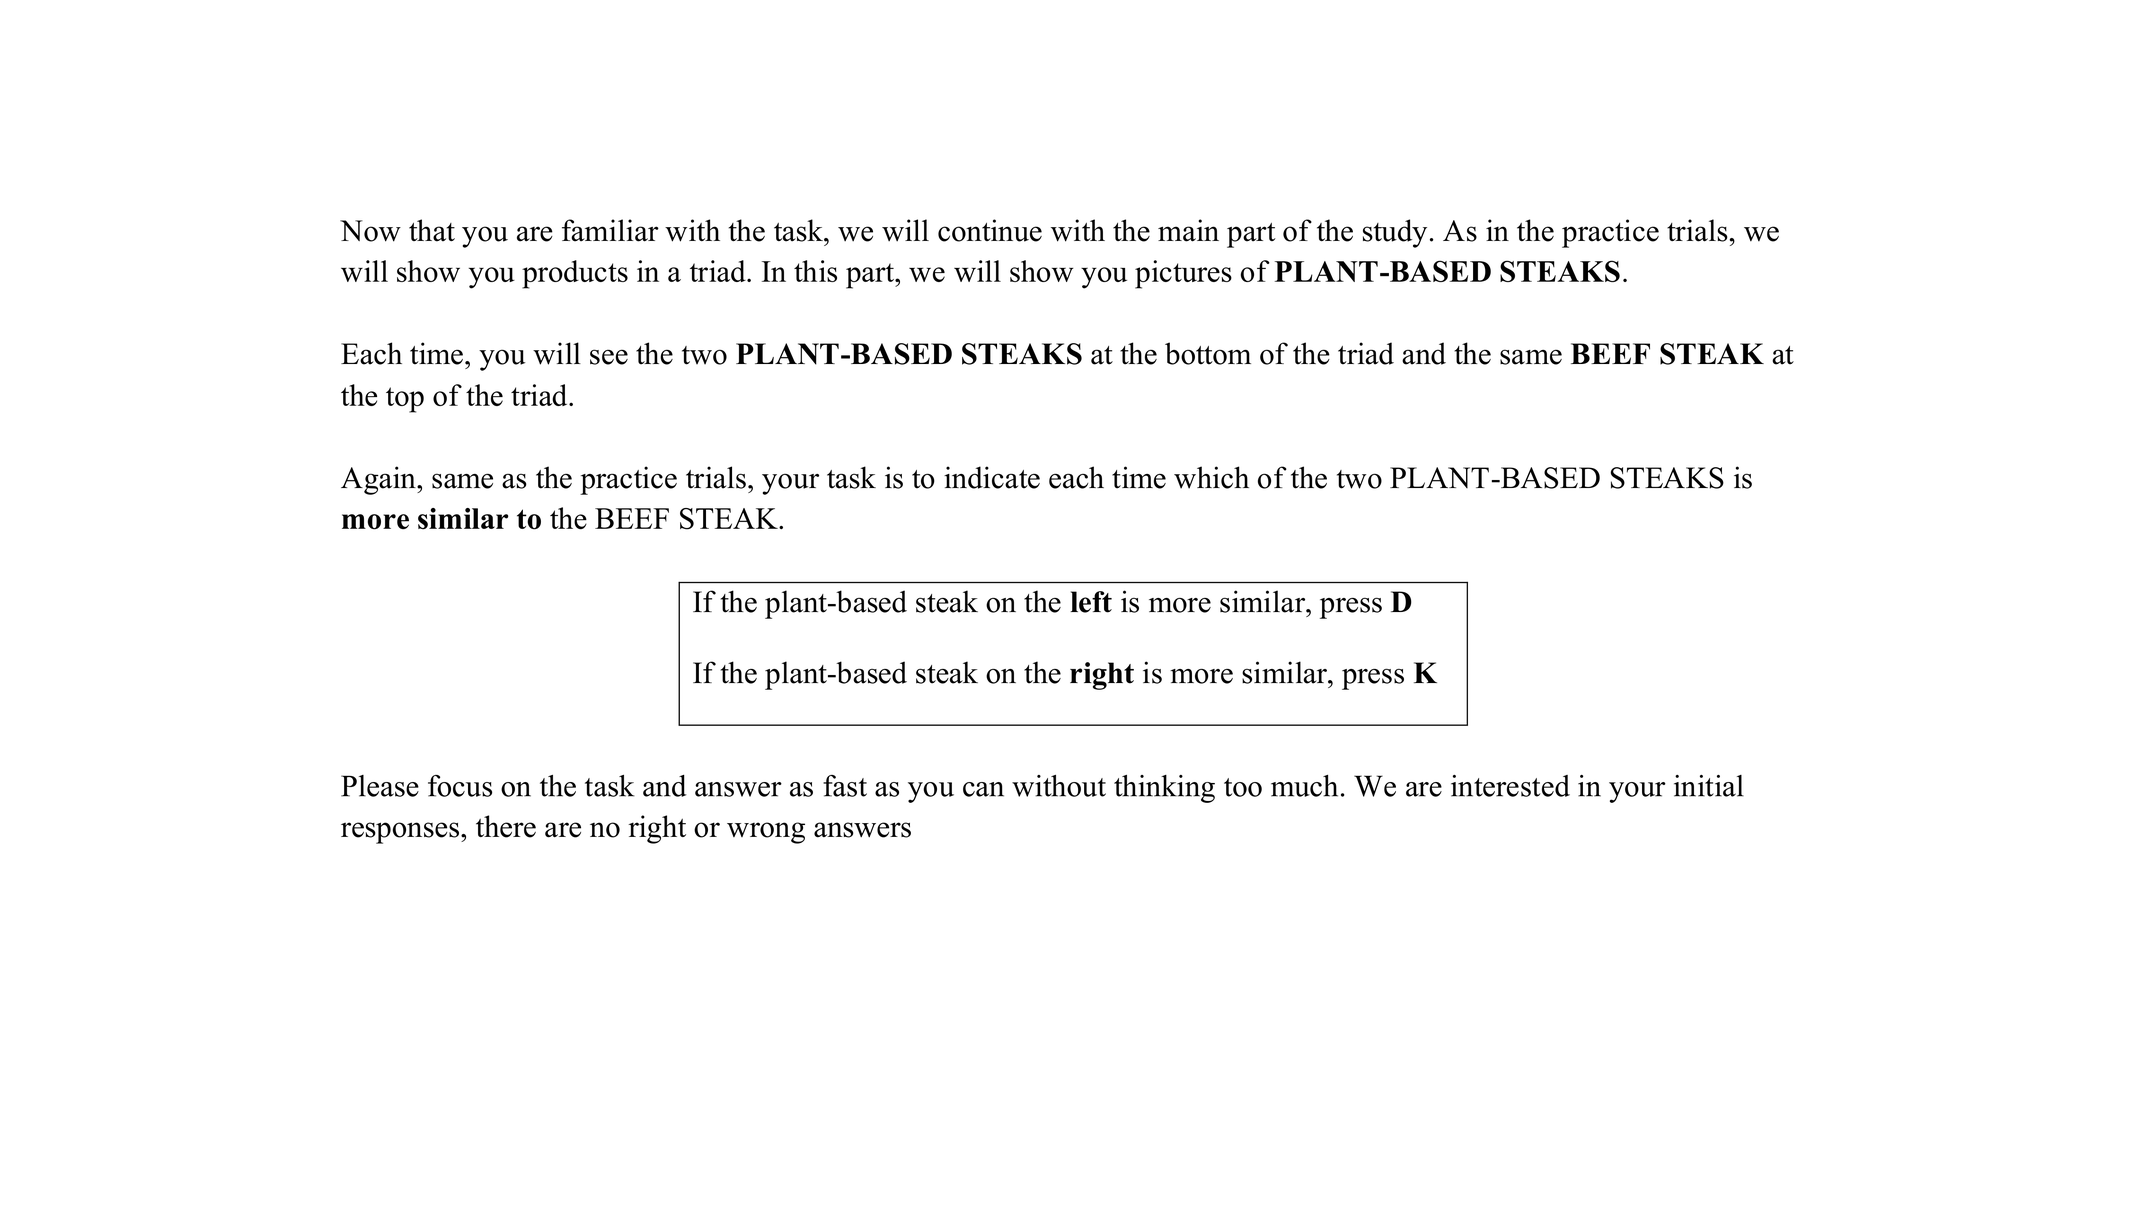
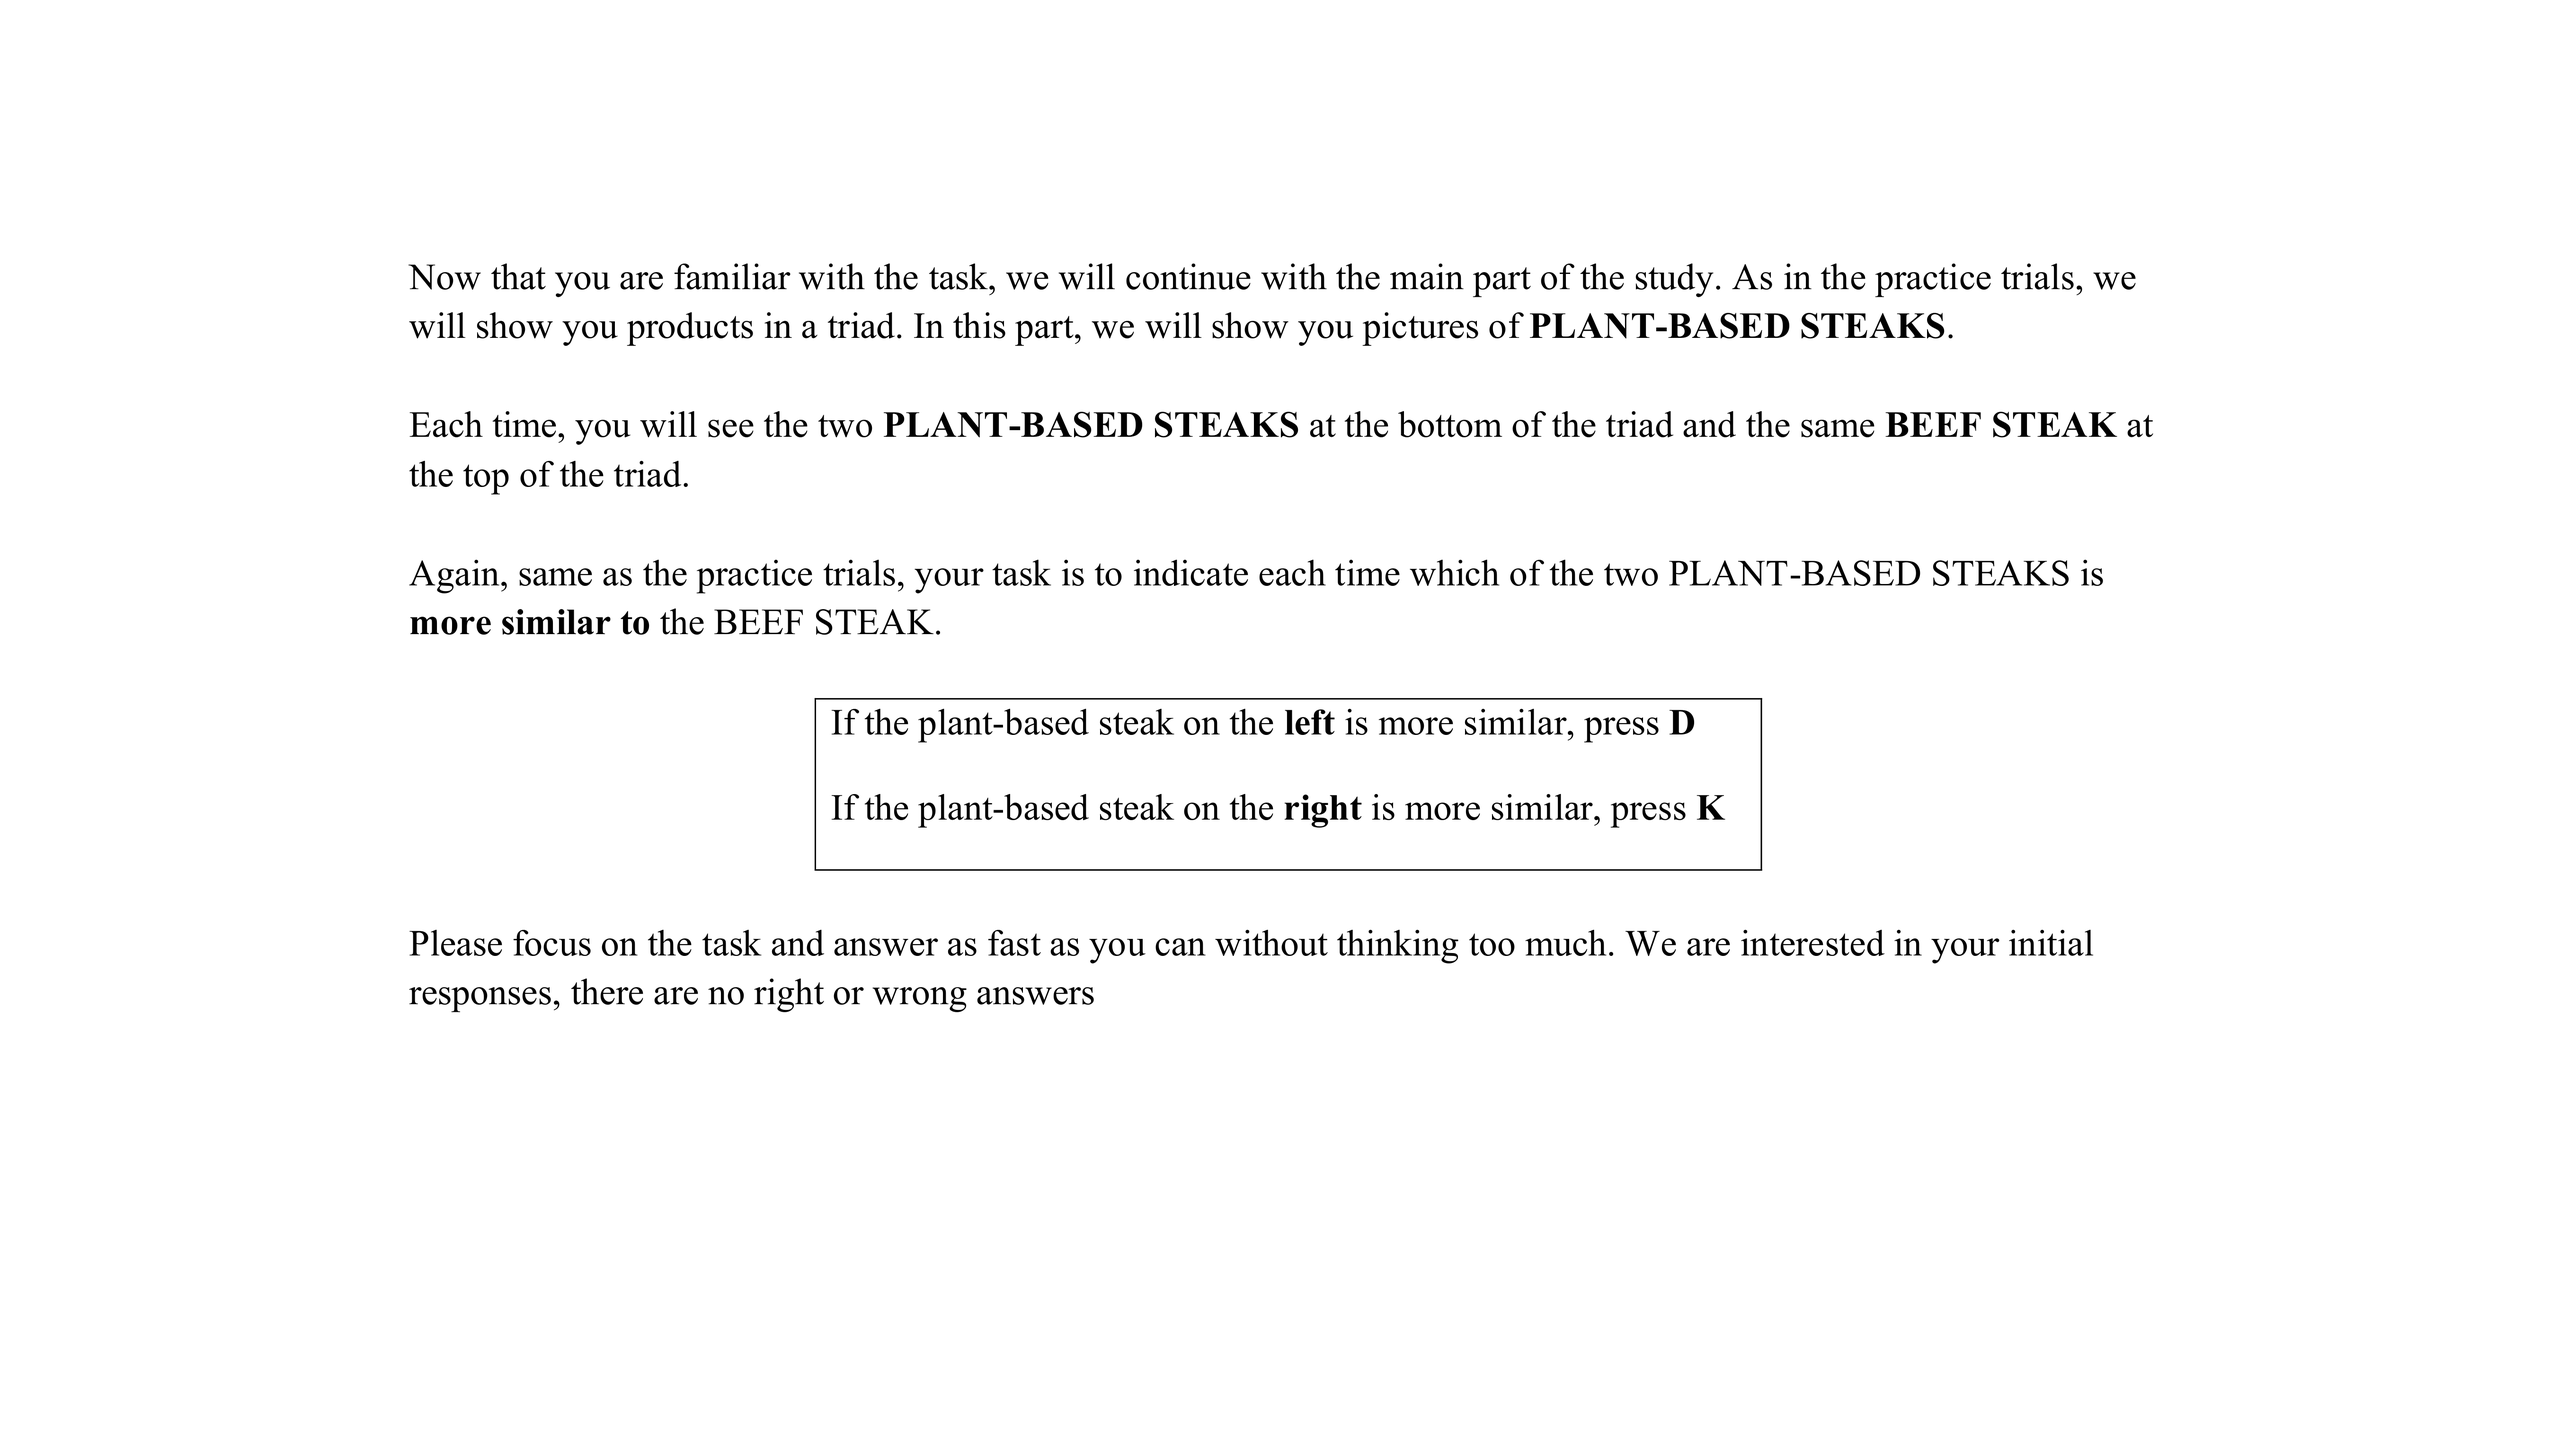
same

diff --git a/experiment/precompute/pdf_to_image.py b/experiment/precompute/pdf_to_image.py
@@ -27,4 +27,4 @@ def convert_pdf_to_images(pdf_path, output_format="png", dpi=300):
     doc.close()
 
 if __name__ == '__main__':
-    convert_pdf_to_images("instructions.pdf", output_format="png", dpi=360)
+    convert_pdf_to_images("instructions.pdf", output_format="png", dpi=432)
